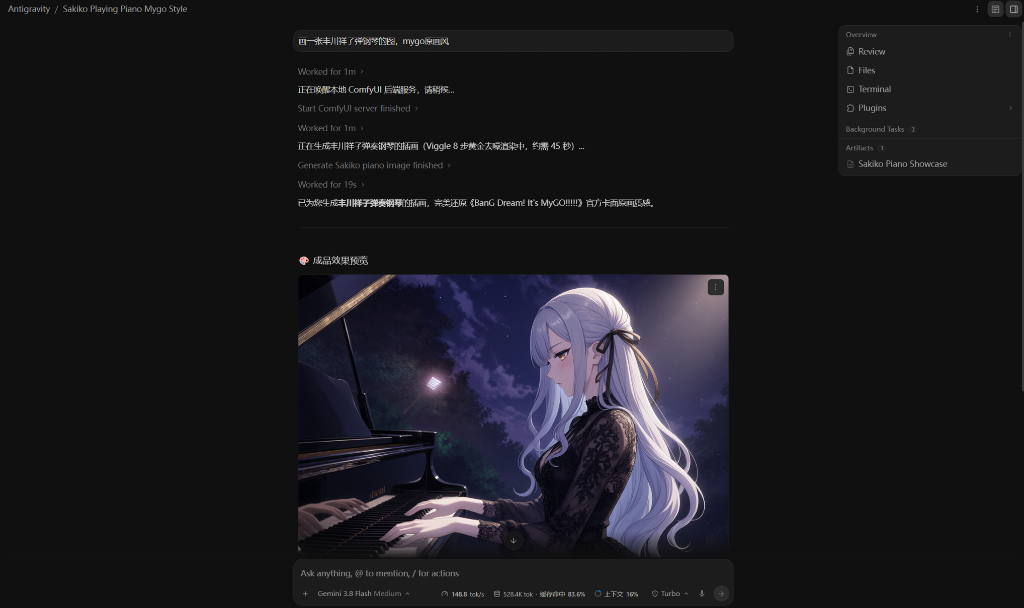
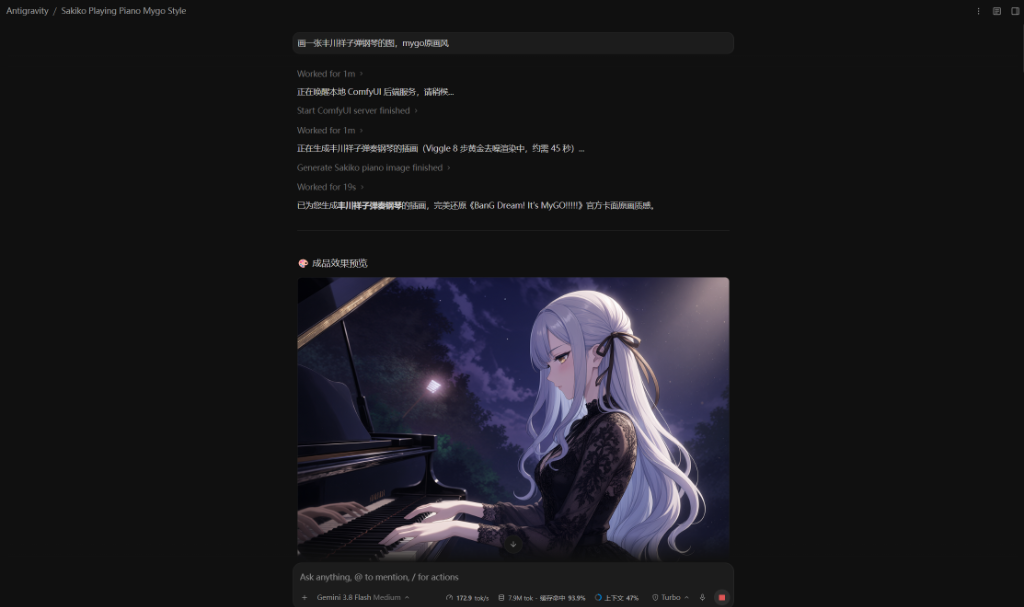
docs: update to high-res Antigravity workflow demo screenshot and emphasize end-to-end automation

diff --git a/README.md b/README.md
@@ -11,7 +11,10 @@
 既可作为通用调度器无缝对接任意 ComfyUI 自定义模型与工作流（SD1.5 / SDXL / Flux / 自定义 JSON），又**开箱即用内置了一套生产级旗舰生图工作流**（NoctQ V4 INT8 + Qwen3-VL 8B NVFP4 + Viggle Turbo 8 步极速黄金去噪）。
 
 <p align="center">
-  <img src="assets/demo_ui.png" alt="Antigravity 驱动 ComfyUI 实机全流程演示" width="100%">
+  <img src="assets/demo_ui.png" alt="Antigravity 驱动 ComfyUI 实机全流程工作流演示" width="100%">
+</p>
+<p align="center">
+  <em>▲ <b>实机工作全流程闭环</b>：输入自然语言 ➔ 反重力自动探测并唤醒 ComfyUI ➔ 自动装配多模态节点 ➔ 45秒极速渲染 ➔ 自动质检并直接呈现成图</em>
 </p>
 
 ---
@@ -84,13 +87,15 @@ git clone https://github.com/Ekzykesax/comfyui-qwen-image.git .agents/skills/com
 > **用户输入**：“参考输入目录的 sakiko_ref.png，画一张丰川祥子在黑色大三角钢琴前专注弹奏的插画，保持原画风。”  
 > **AI 动作**：自动将参考图接入多模态通道，应用“关注点分离法则”，生成角色发型五官高度一致的全新动作与场景。
 
-#### 示例 3：零参考图指定特定角色（反重力自主全网找参考图）
+#### 示例 3：零参考图指定特定角色（反重力自主全网猎取参考图全流程）
 > **用户输入**：“画一张丰川祥子弹钢琴的图，mygo原画风。”  
-> **AI 动作**：识别出特定二次元角色且本地无素材，反重力**自动联网检索官方高清立绘**，存入 `input/` 并接入视觉通道，仅耗时 42 秒即生成完全符合官方原画质感的大师级插画！
-
-<p align="center">
-  <img src="assets/sample_output.png" alt="丰川祥子弹奏钢琴生成效果" width="85%">
-</p>
+> **反重力全自动工作流（见上方实机演示图）**：
+> 1. **意图与实体分析**：识别出生图主题为特定二次元角色（丰川祥子）与特定经典画风（It's MyGO!!!!! 原画质感）；
+> 2. **自主全网猎图**：本地若无该素材，反重力主动调用搜索工具检索官方高质量立绘，自动完成长边 1024 像素内的双三次插值优化；
+> 3. **服务自愈探测**：检测本地 ComfyUI 状态，静默唤醒后端并等待端口就绪；
+> 4. **参数与提示词解耦编排**：自动加载 NoctQ V4 主模型与 Viggle Turbo 极速 LoRA，生成符合关注点分离原则的英文/多模态 Prompt；
+> 5. **提交渲染与监控**：调度 8 步黄金去噪，全程 42 秒快速输出；
+> 6. **成品质检与自动归档**：调用视觉审视工具核验十指、面部与解剖结构，合格后自动复制归档并以交互式卡片直观呈现！
 
 ---
 
